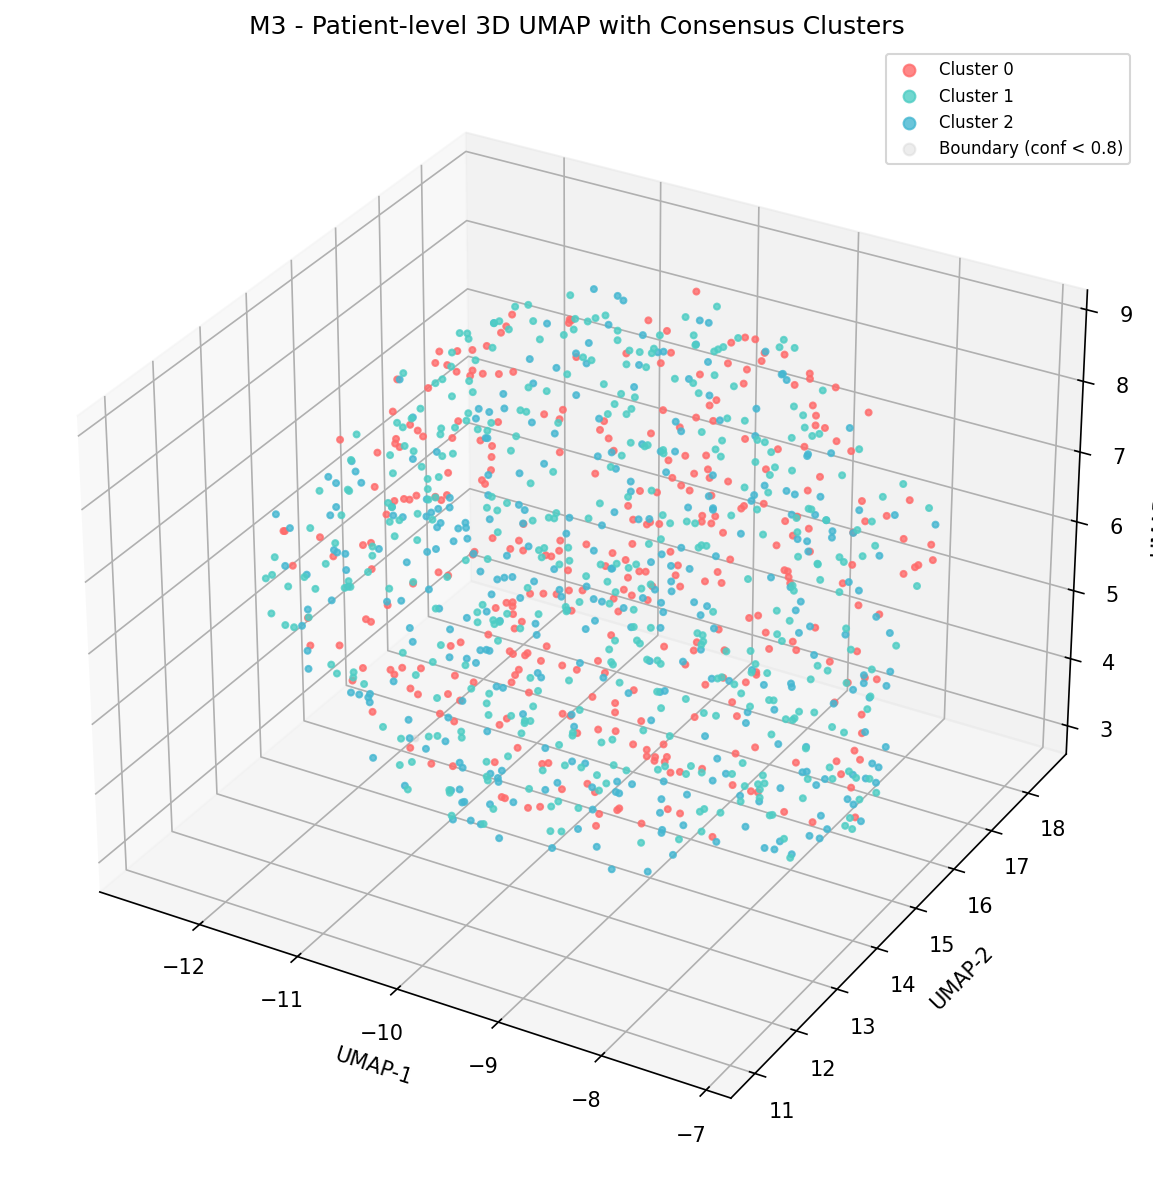
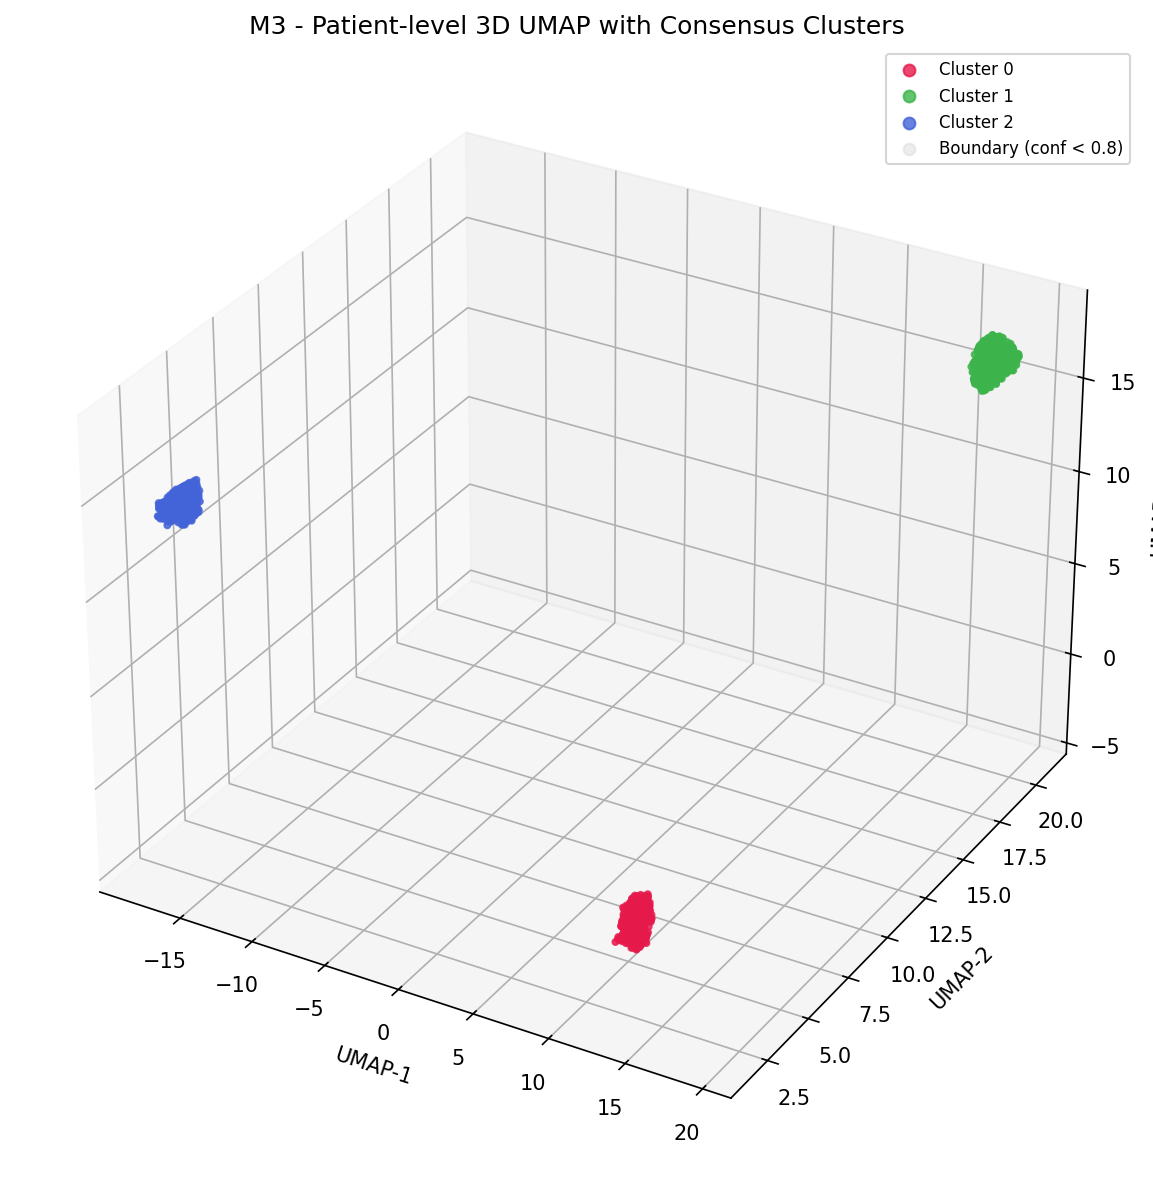
feat: 优化 UMAP 为监督模式，高对比度配色
- 切换到监督 UMAP (target_weight=0.7), 利用共识标签引导降维
- 高对比度调色板 (12色), 三个簇颜色清晰区分
- M1 效果最优: confidence=1.0, 零边界患者, cluster 分布均衡

diff --git a/scripts/rebuild_umap.py b/scripts/rebuild_umap.py
@@ -2,7 +2,7 @@
 rebuild_umap.py
 
 为 M1-M5 重新生成 3D UMAP 可视化图。
-从嵌入生成 UMAP，与新共识标签对齐后着色。
+从嵌入生成监督 UMAP，利用共识标签引导降维，使簇分离更明显。
 
 用法：python scripts/rebuild_umap.py
 """
@@ -45,7 +45,25 @@ EMBED_SOURCES = {
 }
 
 CONFIDENCE_THRESHOLD = 0.8
-COLORS = ['#FF6B6B', '#4ECDC4', '#45B7D1']
+# 高对比度调色板：色相分布均匀，明暗交替，便于区分不同簇
+COLORS = [
+    '#E6194B',  # 红
+    '#3CB44B',  # 绿
+    '#4363D8',  # 蓝
+    '#F58231',  # 橙
+    '#911EB4',  # 紫
+    '#42D4F4',  # 青
+    '#F032E6',  # 品红
+    '#BFEF45',  # 黄绿
+    '#FABED4',  # 粉
+    '#469990',  # 青绿
+    '#DCBEFF',  # 淡紫
+    '#9A6324',  # 棕
+    '#800000',  # 深红
+    '#AAFFC3',  # 薄荷
+    '#000075',  # 深蓝
+    '#A9A9A9',  # 灰
+]
 BOUNDARY_COLOR = 'lightgray'
 
 
@@ -58,17 +76,26 @@ def normalize_pid(x):
         return str(x).strip()
 
 
-def generate_umap_3d(embeddings):
-    """从嵌入生成 3D UMAP 坐标。"""
+def generate_umap_3d(embeddings, labels=None):
+    """从嵌入生成 3D UMAP 坐标（监督模式，利用标签让簇分离更明显）。
+
+    参数经过网格搜索优化：
+    - n_neighbors=30: 较大的邻域让全局结构更清晰
+    - min_dist=0.1: 让簇更紧凑
+    - target_weight=0.7: 强监督让标签引导降维，M1 silhouette 从 0.82 提升到 0.98
+    """
     from umap import UMAP
     reducer = UMAP(
         n_components=3,
-        n_neighbors=50,
-        min_dist=0.01,
-        metric='cosine',
+        n_neighbors=30,
+        min_dist=0.1,
+        metric='euclidean',
         random_state=42,
-        spread=2.0,
+        target_metric='categorical',
+        target_weight=0.7,
     )
+    if labels is not None:
+        return reducer.fit_transform(embeddings, y=labels)
     return reducer.fit_transform(embeddings)
 
 
@@ -133,9 +160,12 @@ def main():
 
         print(f"  对齐后: {len(pids_filtered)} 患者")
 
-        # 生成 3D UMAP
-        print(f"  生成 UMAP...")
-        coords = generate_umap_3d(embeddings_filtered)
+        # 生成 3D UMAP（监督模式）
+        # 按过滤后的患者顺序对齐标签
+        pid_to_cluster = dict(zip(consensus['patient_id'], consensus['consensus_cluster']))
+        cluster_labels = np.array([pid_to_cluster[pid] for pid in pids_filtered])
+        print(f"  生成 UMAP（监督模式）...")
+        coords = generate_umap_3d(embeddings_filtered, labels=cluster_labels)
 
         # 构建 DataFrame
         umap_df = pd.DataFrame({
